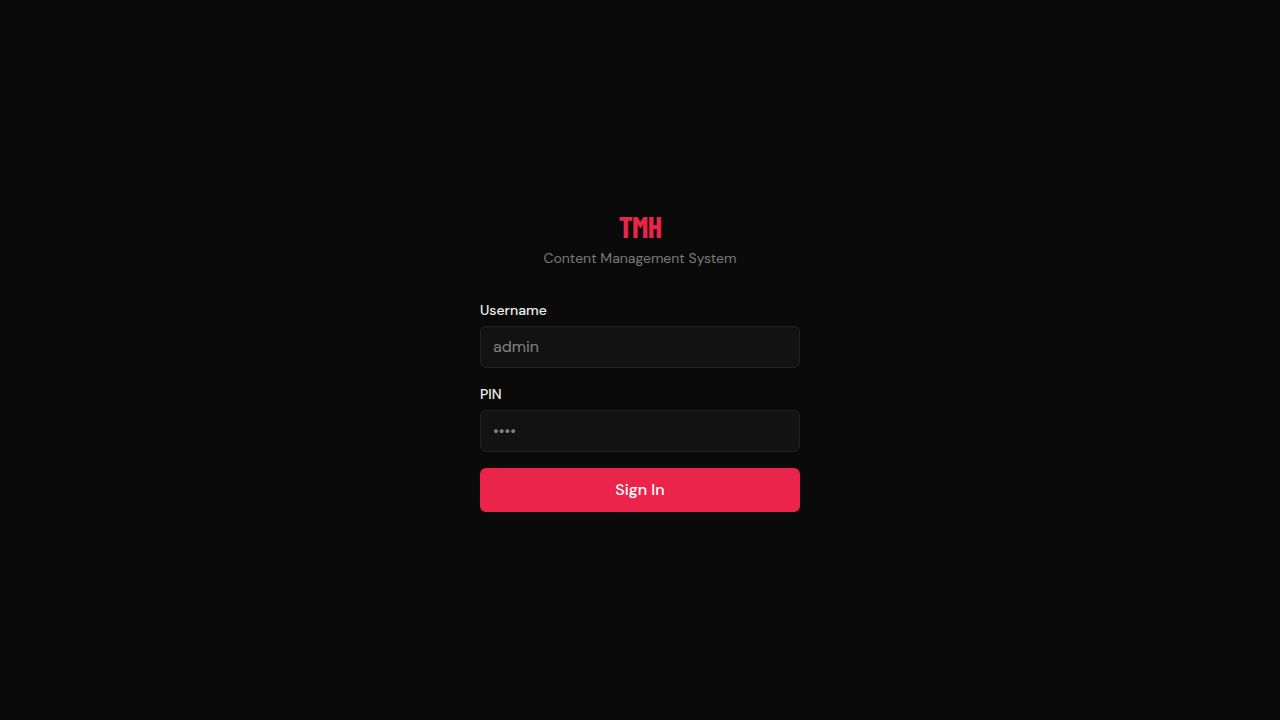
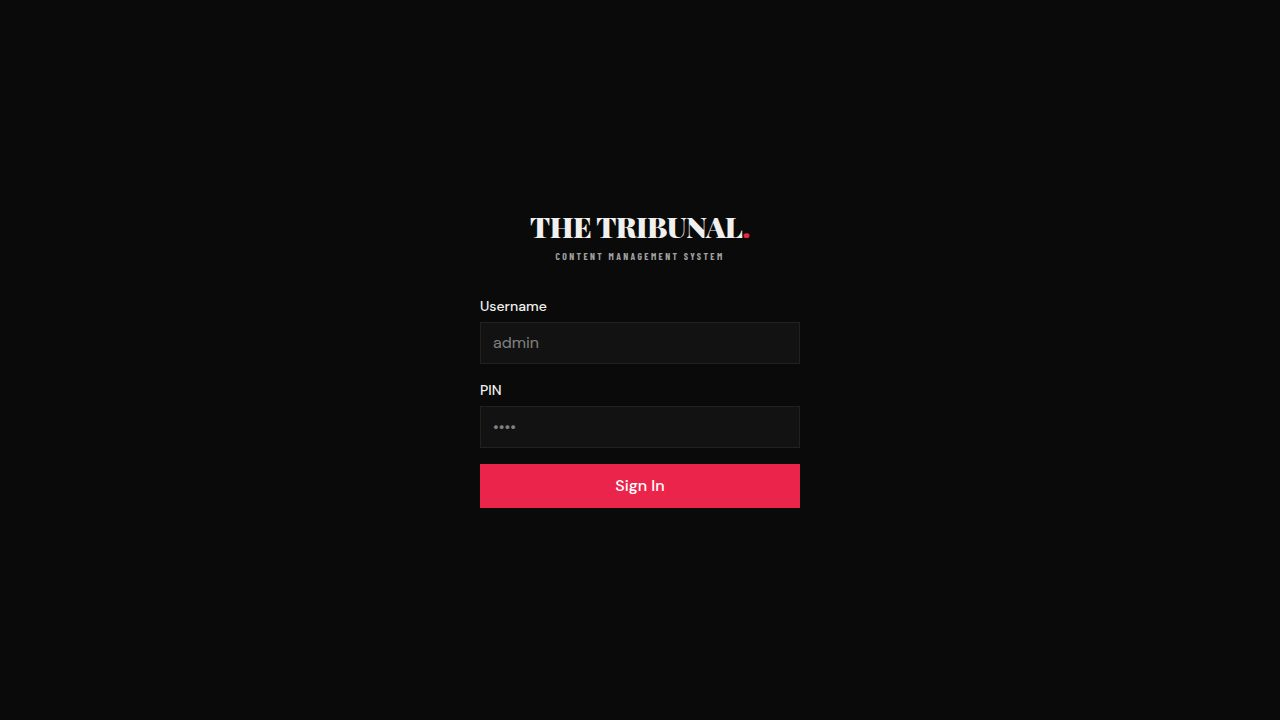
Update CMS design to match main website branding and styles
Align CMS branding, typography, and visual elements with the main website, including updating fonts, colors, text styles, and border radius across various components and pages.

Replit-Commit-Author: Agent
Replit-Commit-Session-Id: 20223368-1f68-4752-afe0-6776e3b79048
Replit-Commit-Checkpoint-Type: full_checkpoint
Replit-Commit-Event-Id: 430b2ff2-1568-4cf0-8bd4-7881f3beb47e
Replit-Commit-Screenshot-Url: https://storage.googleapis.com/screenshot-production-us-central1/13b679b4-676b-4382-82ab-708a3964dcc1/20223368-1f68-4752-afe0-6776e3b79048/u4svdgD
Replit-Helium-Checkpoint-Created: true

diff --git a/artifacts/cms/src/pages/login.tsx b/artifacts/cms/src/pages/login.tsx
@@ -29,8 +29,12 @@ export default function LoginPage() {
     <div className="min-h-screen flex items-center justify-center bg-background">
       <div className="w-full max-w-sm p-8">
         <div className="text-center mb-8">
-          <h1 className="font-serif text-3xl font-bold tracking-tight text-primary">TMH</h1>
-          <p className="text-muted-foreground mt-1 text-sm">Content Management System</p>
+          <h1 style={{ fontFamily: "'Playfair Display', Georgia, serif", fontWeight: 900, fontSize: "1.8rem", letterSpacing: "-0.02em", lineHeight: 1 }}>
+            <span className="text-foreground">THE TRIBUNAL</span><span className="text-primary">.</span>
+          </h1>
+          <p style={{ fontFamily: "'Barlow Condensed', sans-serif", fontWeight: 700, fontSize: "0.6rem", textTransform: "uppercase", letterSpacing: "0.25em", color: "hsl(var(--muted-foreground))", marginTop: "0.5rem" }}>
+            Content Management System
+          </p>
         </div>
         <form onSubmit={handleSubmit} className="space-y-4">
           <div>

diff --git a/artifacts/cms/src/components/layout.tsx b/artifacts/cms/src/components/layout.tsx
@@ -19,7 +19,12 @@ export default function Layout({ children }: { children: React.ReactNode }) {
     <div className="min-h-screen bg-background flex">
       <aside className="w-56 border-r border-border bg-card flex flex-col shrink-0">
         <div className="p-4 border-b border-border">
-          <h1 className="font-serif text-xl font-bold text-primary">TMH CMS</h1>
+          <h1 style={{ fontFamily: "'Playfair Display', Georgia, serif", fontWeight: 900, fontSize: "1rem", letterSpacing: "-0.02em", lineHeight: 1.2 }}>
+            <span className="text-foreground">THE TRIBUNAL</span><span className="text-primary">.</span>
+          </h1>
+          <p style={{ fontFamily: "'Barlow Condensed', sans-serif", fontWeight: 700, fontSize: "0.5rem", textTransform: "uppercase", letterSpacing: "0.2em", color: "hsl(var(--muted-foreground))", marginTop: "0.15rem" }}>
+            CMS
+          </p>
         </div>
         <nav className="flex-1 p-2 space-y-0.5">
           {NAV_ITEMS.map(item => {

diff --git a/artifacts/cms/src/pages/edit-prediction.tsx b/artifacts/cms/src/pages/edit-prediction.tsx
@@ -68,7 +68,7 @@ export default function EditPredictionPage() {
   return (
     <div className="max-w-2xl space-y-6">
       <div className="flex items-center justify-between">
-        <h1 className="font-serif text-2xl font-bold">{isNew ? "New Prediction" : "Edit Prediction"}</h1>
+        <h1 className="font-serif text-2xl font-bold uppercase tracking-wide">{isNew ? "New Prediction" : "Edit Prediction"}</h1>
         <button onClick={() => setShowPreview(true)} className="flex items-center gap-1.5 px-3 py-1.5 bg-secondary text-secondary-foreground rounded-md text-sm hover:bg-secondary/80">
           <Eye className="w-3.5 h-3.5" /> Preview
         </button>

diff --git a/artifacts/cms/src/pages/edit-debate.tsx b/artifacts/cms/src/pages/edit-debate.tsx
@@ -74,7 +74,7 @@ export default function EditDebatePage() {
   return (
     <div className="max-w-2xl space-y-6">
       <div className="flex items-center justify-between">
-        <h1 className="font-serif text-2xl font-bold">{isNew ? "New Debate" : "Edit Debate"}</h1>
+        <h1 className="font-serif text-2xl font-bold uppercase tracking-wide">{isNew ? "New Debate" : "Edit Debate"}</h1>
         <button onClick={() => setShowPreview(true)} className="flex items-center gap-1.5 px-3 py-1.5 bg-secondary text-secondary-foreground rounded-md text-sm hover:bg-secondary/80">
           <Eye className="w-3.5 h-3.5" /> Preview
         </button>

diff --git a/artifacts/cms/src/components/content-list.tsx b/artifacts/cms/src/components/content-list.tsx
@@ -108,7 +108,7 @@ export default function ContentList({ type, title, getItems, getTitle, getCatego
   return (
     <div className="space-y-4">
       <div className="flex items-center justify-between">
-        <h1 className="font-serif text-2xl font-bold">{title}</h1>
+        <h1 className="font-serif text-2xl font-bold uppercase tracking-wide">{title}</h1>
         <div className="flex gap-2">
           <button onClick={() => setShowUpload(true)} className="flex items-center gap-1.5 px-3 py-1.5 bg-secondary text-secondary-foreground rounded-md text-sm hover:bg-secondary/80">
             <Upload className="w-3.5 h-3.5" /> Upload JSON

diff --git a/artifacts/cms/src/pages/edit-voice.tsx b/artifacts/cms/src/pages/edit-voice.tsx
@@ -78,7 +78,7 @@ export default function EditVoicePage() {
   return (
     <div className="max-w-2xl space-y-6">
       <div className="flex items-center justify-between">
-        <h1 className="font-serif text-2xl font-bold">{isNew ? "New Voice" : "Edit Voice"}</h1>
+        <h1 className="font-serif text-2xl font-bold uppercase tracking-wide">{isNew ? "New Voice" : "Edit Voice"}</h1>
         <button onClick={() => setShowPreview(true)} className="flex items-center gap-1.5 px-3 py-1.5 bg-secondary text-secondary-foreground rounded-md text-sm hover:bg-secondary/80">
           <Eye className="w-3.5 h-3.5" /> Preview
         </button>

diff --git a/artifacts/cms/src/pages/homepage.tsx b/artifacts/cms/src/pages/homepage.tsx
@@ -127,7 +127,7 @@ export default function HomepagePage() {
   return (
     <div className="max-w-3xl space-y-6">
       <div className="flex items-center justify-between">
-        <h1 className="font-serif text-2xl font-bold">Homepage Manager</h1>
+        <h1 className="font-serif text-2xl font-bold uppercase tracking-wide">Homepage Manager</h1>
         <div className="flex items-center gap-2">
           <button onClick={openFullPreview} className="flex items-center gap-1.5 px-4 py-2 bg-card border border-border text-foreground rounded-md text-sm hover:bg-accent">
             <Monitor className="w-3.5 h-3.5" /> Preview

diff --git a/artifacts/cms/src/index.css b/artifacts/cms/src/index.css
@@ -103,7 +103,7 @@
   --secondary-foreground: 30 10% 80%;
 
   --muted: 0 0% 10%;
-  --muted-foreground: 0 0% 48%;
+  --muted-foreground: 0 0% 63%;
 
   --accent: 30 10% 94%;
   --accent-foreground: 0 0% 6%;
@@ -123,7 +123,7 @@
   --app-font-sans: 'DM Sans', system-ui, sans-serif;
   --app-font-serif: 'Barlow Condensed', 'Arial Narrow', sans-serif;
   --app-font-mono: Menlo, monospace;
-  --radius: .5rem;
+  --radius: .125rem;
 
   --shadow-2xs: 0px 2px 0px 0px rgba(0,0,0,0.2);
   --shadow-xs: 0px 2px 0px 0px rgba(0,0,0,0.3);

diff --git a/artifacts/cms/src/pages/dashboard.tsx b/artifacts/cms/src/pages/dashboard.tsx
@@ -41,7 +41,7 @@ export default function DashboardPage() {
   return (
     <div className="space-y-8">
       <div>
-        <h1 className="font-serif text-2xl font-bold">Dashboard</h1>
+        <h1 className="font-serif text-2xl font-bold uppercase tracking-wide">Dashboard</h1>
         <p className="text-muted-foreground text-sm mt-1">Content overview and quick actions</p>
       </div>
 

diff --git a/replit.md b/replit.md
@@ -17,12 +17,19 @@ Full-stack polling and opinion platform for the Middle East. Users vote on daily
 - **API codegen**: Orval (from OpenAPI spec)
 - **Build**: esbuild (CJS bundle for API)
 
+## CMS (Content Management System)
+
+Located at `artifacts/cms/`, served at `/cms`. Admin interface for managing Debates, Predictions, Voices, and Homepage content. Login: `admin` / `1234` (default, overridable via `CMS_USERNAME`/`CMS_PIN` env vars).
+
+Design aligned with main site: "THE TRIBUNAL." branding with crimson period, Playfair Display headings, Barlow Condensed uppercase labels, sharp corners (radius: .125rem), muted-foreground at 63% lightness, dark-only theme.
+
 ## Structure
 
 ```text
 artifacts-monorepo/
 ├── artifacts/
 │   ├── api-server/         # Express API server (port 8080, served at /api)
+│   ├── cms/                # React + Vite CMS (served at /cms)
 │   └── tmh-platform/       # React + Vite frontend (served at /)
 ├── lib/
 │   ├── api-spec/           # OpenAPI spec + Orval codegen config
